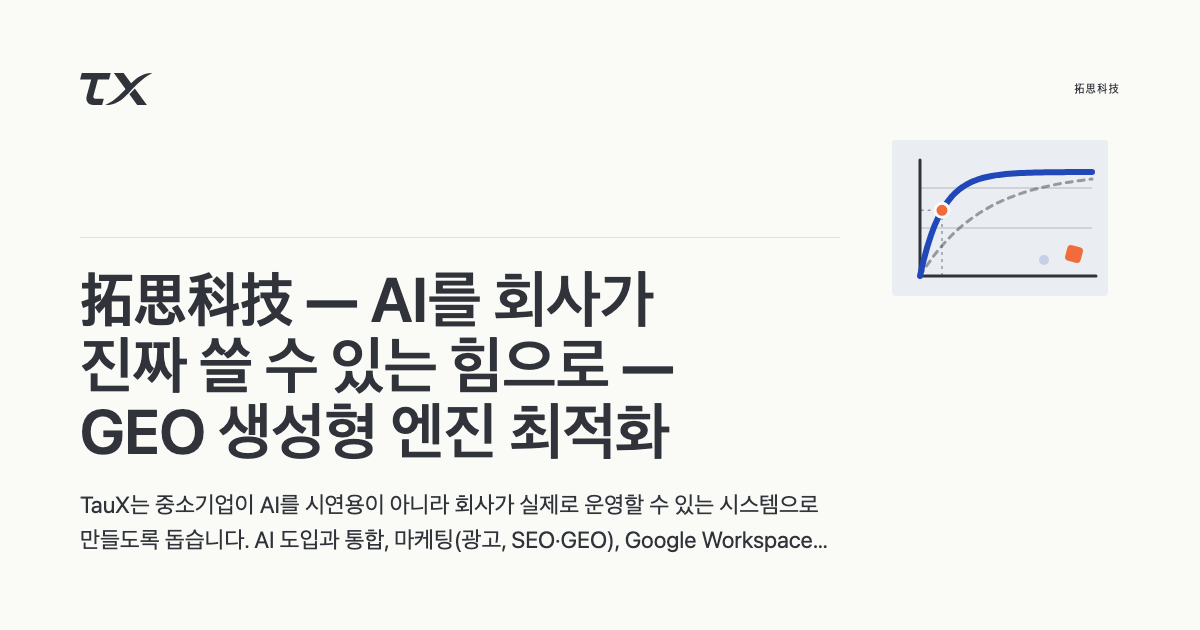
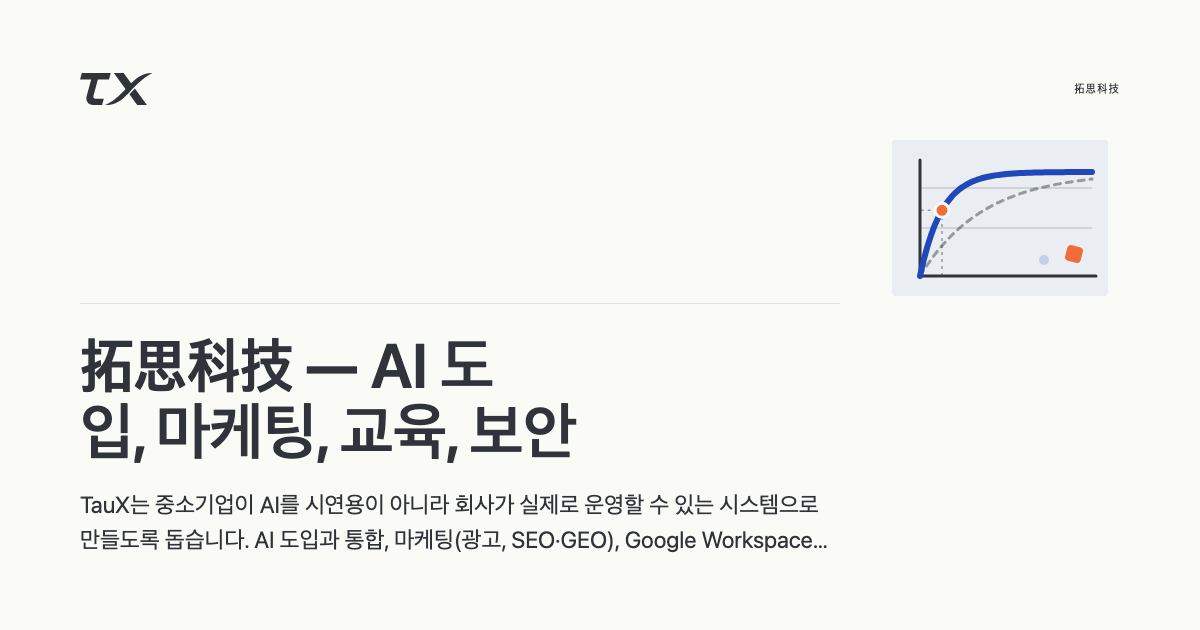
首頁標題改為四類服務，不再以 GEO 結尾（DESIGN.md 決策 #175，擁有者裁示）
- 五語系 title 與 WebPage JSON-LD name：AI 導入、行銷、教育訓練與資安
- llms.txt 英文首頁條目同步；首頁五張分享卡重新產生
- GEO 相關查詢交給 GEO 指南頁（其標題仍以 GEO 開頭）

Claude-Session: https://claude.ai/code/session_01RAHddskW8i45K3jvJXSmfn

Changed region(s): [[0.0617, 0.4222, 0.555, 0.754]]

diff --git a/templates/ja-JP/index.html b/templates/ja-JP/index.html
@@ -11,7 +11,7 @@
     {
       "@type": "WebPage",
       "@id": "https://taux.io/ja-JP#webpage",
-      "name": "拓思科技股份有限公司｜TauX - AI that earns its place｜GEO 生成エンジン最適化",
+      "name": "TauX 拓思科技｜AI 導入、マーケティング、研修、セキュリティ",
       "description": "TauX は台湾・高雄を拠点に、中小企業が AI をデモで終わらせず、実際に業務で回せる仕組みにするお手伝いをしています。AI 導入と統合、マーケティング（広告、SEO・GEO）、Google Workspace と AI の研修、セキュリティ（AI レッドチーミング、Google SecOps）の四つの分野を扱います。",
       "url": "https://taux.io/ja-JP",
       "isPartOf": {"@id": "https://taux.io/#website"},

diff --git a/templates/ko-KR/index.html b/templates/ko-KR/index.html
@@ -11,7 +11,7 @@
     {
       "@type": "WebPage",
       "@id": "https://taux.io/ko-KR#webpage",
-      "name": "拓思科技股份有限公司｜TauX - AI that earns its place｜GEO 생성형 엔진 최적화",
+      "name": "TauX 拓思科技｜AI 도입, 마케팅, 교육, 보안",
       "description": "TauX는 중소기업이 AI를 시연용이 아니라 회사가 실제로 운영할 수 있는 시스템으로 만들도록 돕습니다. AI 도입과 통합, 마케팅(광고, SEO·GEO), Google Workspace와 AI 교육, 보안(AI 레드팀, Google SecOps)의 네 분야를 다루며, 대만 가오슝에 있습니다.",
       "url": "https://taux.io/ko-KR",
       "isPartOf": {"@id": "https://taux.io/#website"},

diff --git a/templates/zh-Hans-CN/index.html b/templates/zh-Hans-CN/index.html
@@ -11,7 +11,7 @@
     {
       "@type": "WebPage",
       "@id": "https://taux.io/zh-Hans-CN#webpage",
-      "name": "拓思科技股份有限公司｜TauX - AI that earns its place｜GEO 生成式引擎优化",
+      "name": "拓思科技股份有限公司｜TauX - AI 导入、营销、教育培训与网络安全",
       "description": "TauX 协助中小企业把 AI 变成能用的系统，而不是一场展示：AI 导入与整合、营销、教育培训与网络安全服务。",
       "url": "https://taux.io/zh-Hans-CN",
       "isPartOf": {"@id": "https://taux.io/#website"},

diff --git a/templates/index.html b/templates/index.html
@@ -11,7 +11,7 @@
     {
       "@type": "WebPage",
       "@id": "https://taux.io/zh-Hant-TW#webpage",
-      "name": "拓思科技股份有限公司｜TauX - AI that earns its place｜GEO 生成式引擎優化",
+      "name": "拓思科技股份有限公司｜TauX - AI 導入、行銷、教育訓練與資安",
       "description": "TauX 協助中小企業把 AI 變成能用的系統，而不是一場展示：AI 導入與整合、行銷、教育訓練與資安服務。",
       "url": "https://taux.io/zh-Hant-TW",
       "isPartOf": {"@id": "https://taux.io/#website"},

diff --git a/templates/en-US/index.html b/templates/en-US/index.html
@@ -11,7 +11,7 @@
     {
       "@type": "WebPage",
       "@id": "https://taux.io/en-US#webpage",
-      "name": "TauX — AI that earns its place | Generative Engine Optimization",
+      "name": "TauX — AI adoption, marketing, training and security",
       "description": "Kaohsiung-based TauX helps SMEs turn AI into systems they can run, not demos: AI adoption, ads, SEO and GEO, Workspace and AI training, and security.",
       "url": "https://taux.io/en-US",
       "isPartOf": {"@id": "https://taux.io/#website"},
